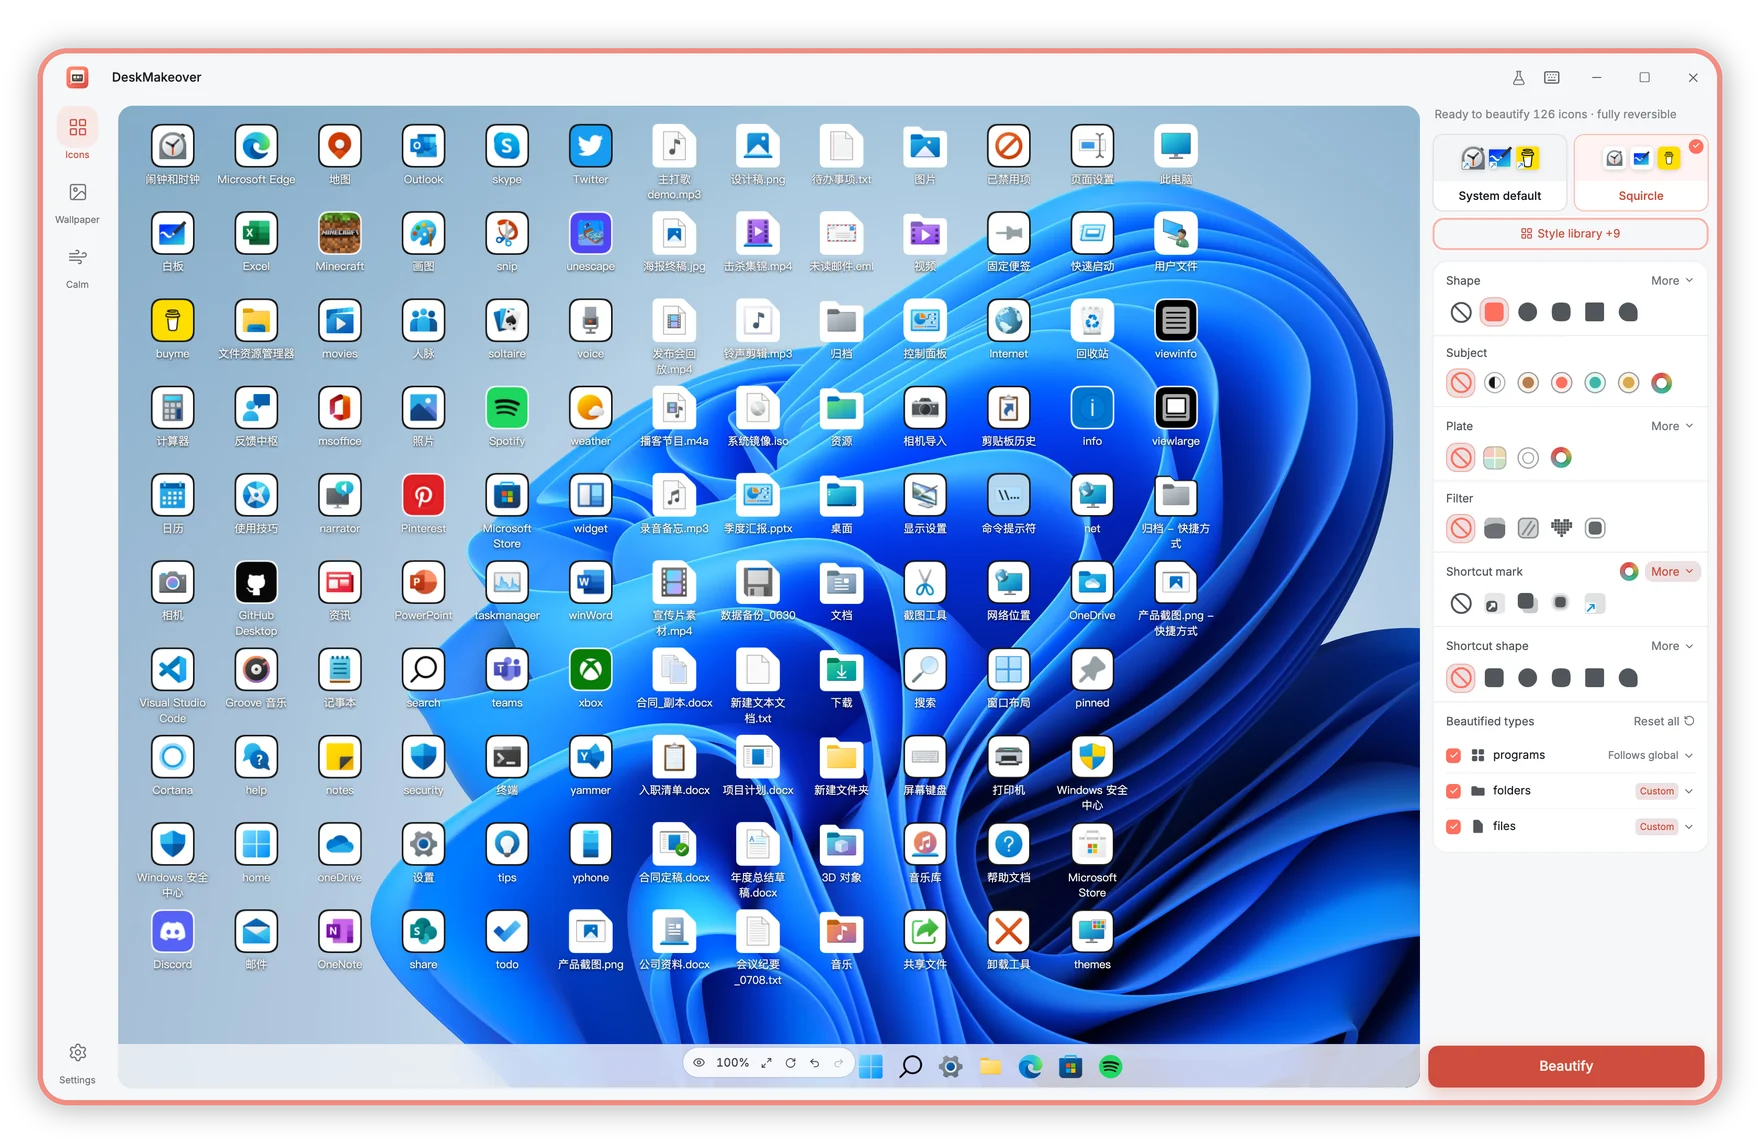
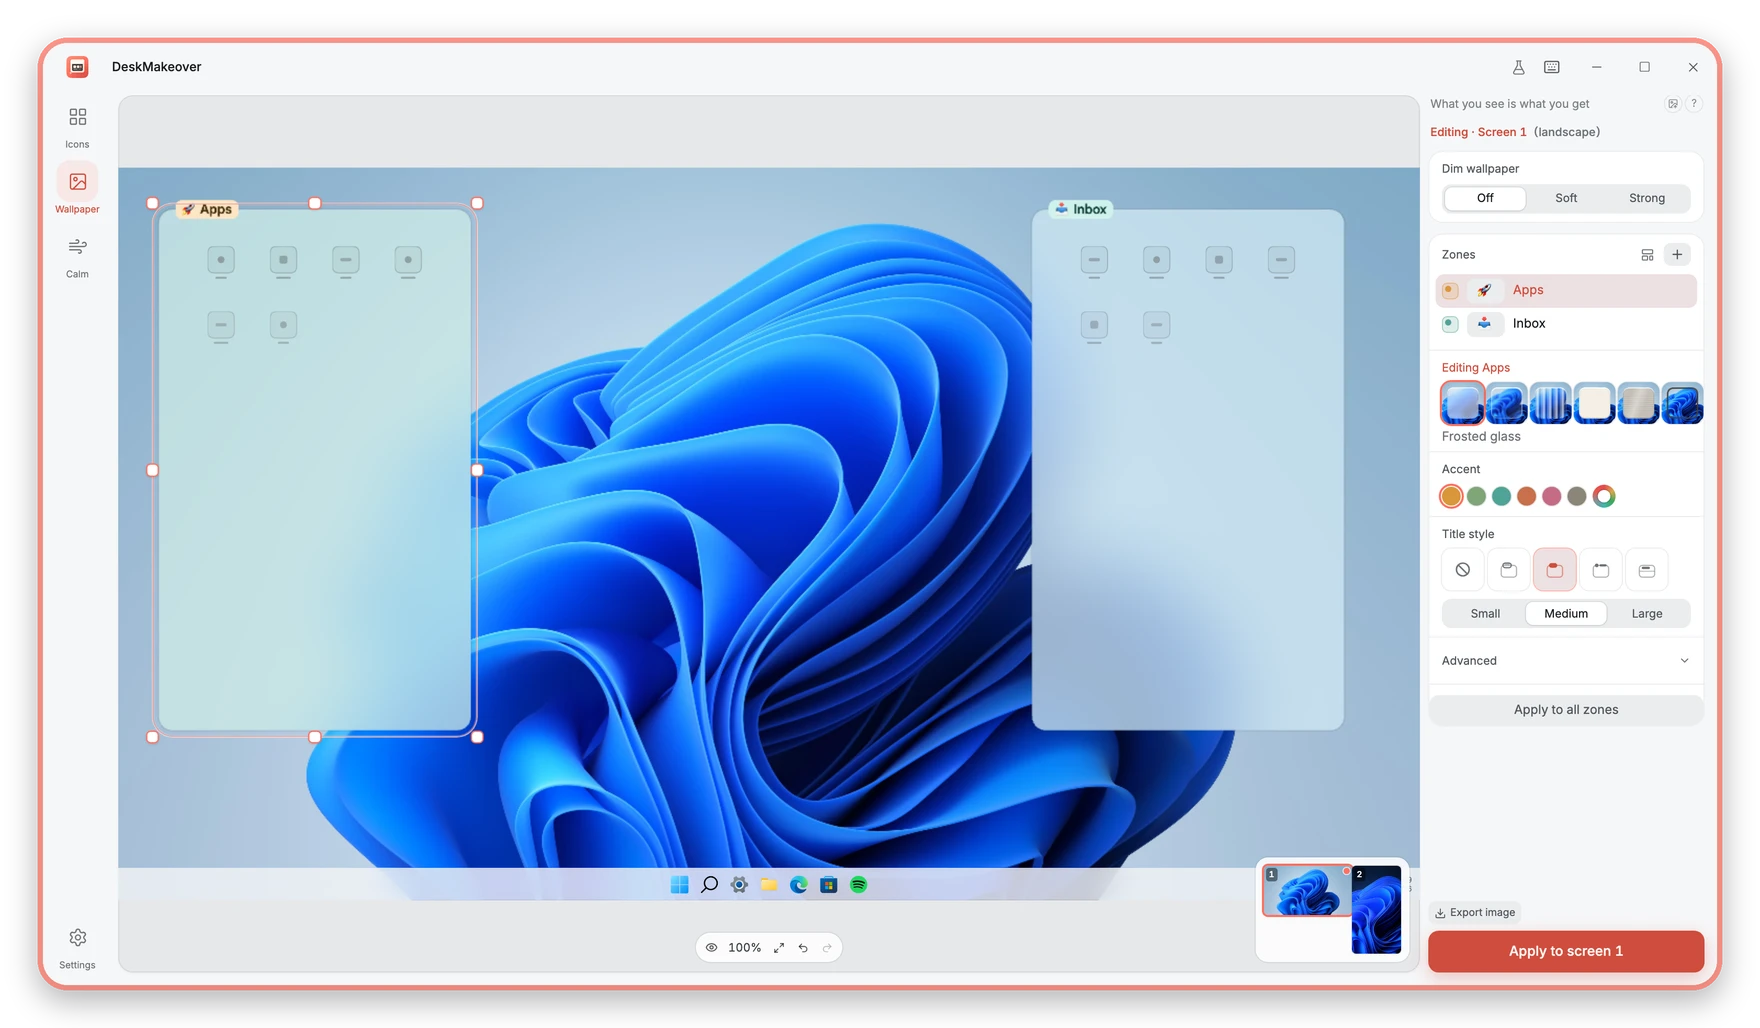
docs(readme): land the two-chief review — diagram width, dead links, distinct studio shot
Panel findings from the OSS + design chiefs, verified on real GitHub renders:
- narrow the architecture ASCII diagram to <=84 cols (the repo-home README
  column clipped every crate annotation mid-word; zh synced)
- hero + beta badge now anchor to the install section instead of the empty
  Releases page (restore to Releases at launch — see launch checklist)
- reshoot the studio shot as the wallpaper tab (zone selected, labeled panel)
  so it no longer duplicates the owner's zoomed icons shot
- reorder the nine-preset grid to match the specimen caption order (zh synced)
- concrete zh subtitles for 方圆 / 圆窗
- <sub> captions for the stylepack + zones shots (caption rule now uniform)
- rule-gradient: 2px core + soft halo so it reads on light theme

diff --git a/README.md b/README.md
@@ -8,7 +8,7 @@
 
 **Give your Windows desktop a look you actually like. Don't like it? One click puts everything back.**
 
-[![Status](https://img.shields.io/badge/beta-v0.1.0-FF6F5E?labelColor=2f363d)](https://github.com/nicepkg/deskmakeover/releases)
+[![Status](https://img.shields.io/badge/beta-v0.1.0-FF6F5E?labelColor=2f363d)](#-how-to-install)
 [![Windows](https://img.shields.io/badge/Windows-10%20%C2%B7%2011-464f58?labelColor=2f363d)](#-how-to-install)
 [![License](https://img.shields.io/badge/License-MIT-464f58?labelColor=2f363d)](LICENSE)
 [![Tauri](https://img.shields.io/badge/Built%20with-Tauri%202-464f58?labelColor=2f363d)](https://v2.tauri.app/)
@@ -17,7 +17,7 @@
 
 <br/>
 
-<a href="https://github.com/nicepkg/deskmakeover/releases">
+<a href="#-how-to-install">
   <img src=".github/assets/hero-beforeafter.svg" width="880" alt="A cluttered default Windows desktop is beautified into clean squircle icons with one click, then fully restored" />
 </a>
 
@@ -51,18 +51,18 @@ Each one hand-tuned on a real desktop. Pick one, click once, every icon puts it 
 <table align="center">
 <tr>
   <td align="center"><img src=".github/assets/preset-squircle.webp" width="250" alt="Squircle preset" /><br/><b>Squircle</b><br/><sub>continuous corners</sub></td>
-  <td align="center"><img src=".github/assets/preset-blueprint.webp" width="250" alt="Blueprint preset" /><br/><b>Blueprint</b><br/><sub>monochrome ink</sub></td>
+  <td align="center"><img src=".github/assets/preset-porthole.webp" width="250" alt="Porthole preset" /><br/><b>Porthole</b><br/><sub>clean circles</sub></td>
   <td align="center"><img src=".github/assets/preset-pixel-era.webp" width="250" alt="Pixel Era preset" /><br/><b>Pixel Era</b><br/><sub>8-bit afternoon</sub></td>
 </tr>
 <tr>
+  <td align="center"><img src=".github/assets/preset-creekstone.webp" width="250" alt="Creekstone preset" /><br/><b>Creekstone</b><br/><sub>river-worn stone</sub></td>
+  <td align="center"><img src=".github/assets/preset-scrapbook.webp" width="250" alt="Scrapbook preset" /><br/><b>Scrapbook</b><br/><sub>pasted by hand</sub></td>
   <td align="center"><img src=".github/assets/preset-gleam.webp" width="250" alt="Gleam preset" /><br/><b>Gleam</b><br/><sub>brushed with light</sub></td>
-  <td align="center"><img src=".github/assets/preset-glaze.webp" width="250" alt="Glaze preset" /><br/><b>Glaze</b><br/><sub>cool porcelain</sub></td>
-  <td align="center"><img src=".github/assets/preset-die-cut.webp" width="250" alt="Die-Cut preset" /><br/><b>Die-Cut</b><br/><sub>sticker outlines</sub></td>
 </tr>
 <tr>
-  <td align="center"><img src=".github/assets/preset-porthole.webp" width="250" alt="Porthole preset" /><br/><b>Porthole</b><br/><sub>clean circles</sub></td>
-  <td align="center"><img src=".github/assets/preset-scrapbook.webp" width="250" alt="Scrapbook preset" /><br/><b>Scrapbook</b><br/><sub>pasted by hand</sub></td>
-  <td align="center"><img src=".github/assets/preset-creekstone.webp" width="250" alt="Creekstone preset" /><br/><b>Creekstone</b><br/><sub>river-worn stone</sub></td>
+  <td align="center"><img src=".github/assets/preset-die-cut.webp" width="250" alt="Die-Cut preset" /><br/><b>Die-Cut</b><br/><sub>sticker outlines</sub></td>
+  <td align="center"><img src=".github/assets/preset-blueprint.webp" width="250" alt="Blueprint preset" /><br/><b>Blueprint</b><br/><sub>monochrome ink</sub></td>
+  <td align="center"><img src=".github/assets/preset-glaze.webp" width="250" alt="Glaze preset" /><br/><b>Glaze</b><br/><sub>cool porcelain</sub></td>
 </tr>
 </table>
 
@@ -85,6 +85,8 @@ Landed on a combination you love? Save it as your own style and reuse it with a 
 
 <div align="center">
 <img src=".github/assets/feature-stylepack.webp" width="440" alt="The style library with save, export, and import controls" />
+<br/>
+<sub>Your library lives next to the built-ins: save, export, import.</sub>
 </div>
 
 ## 🗂 Draw zones on your wallpaper
@@ -93,6 +95,8 @@ Icons piling into one big crowd? Draw translucent zones onto the wallpaper, one 
 
 <div align="center">
 <img src=".github/assets/feature-zones.webp" width="760" alt="Three template zones laid out on the wallpaper: Apps, Work, and a dark Doing zone" />
+<br/>
+<sub>One click of a layout template put these three zones down.</sub>
 </div>
 
 ## ✂ The little shortcut arrow: swap it or remove it
@@ -106,9 +110,9 @@ Find that arrow ugly? Swap it for a cleaner mark, or remove it. The app does it 
 ## 🎛 Inside the studio
 
 <div align="center">
-<img src=".github/assets/app-studio.webp" width="880" alt="The DeskMakeover window: live desktop mirror on the left, design controls on the right" />
+<img src=".github/assets/app-studio.webp" width="880" alt="The DeskMakeover window on the wallpaper tab: zones on the live desktop mirror, materials and title styles on the right" />
 <br/>
-<sub>Pick a look on the right, watch your real desktop restyle live on the left, hit Beautify when it's perfect.</sub>
+<sub>Every tab works the same way: adjust on the right, watch your real desktop change live on the left.</sub>
 </div>
 
 ## 📦 How to install
@@ -145,13 +149,14 @@ Yes. Pick a look, check the preview, click apply. No commands, no technical sett
 DeskMakeover is a **Tauri 2 + Rust** desktop app with a **React 19 + TypeScript** UI rendered in the system WebView (WebView2). The pixels are owned by one Rust icon core:
 
 ```
-React UI  ──(generated bridge, tauri-specta)──▶  Rust host
-  │                                                 │
-  │  live preview + design controls                ├─ dm-icon-core   one pixel truth (WASM preview + native bake)
-  │  WYSIWYG canvas (Pixi wallpaper)                ├─ dm-windows     shell / registry / desktop geometry
-  └─ mock backend for browser dev                   ├─ dm-operations  snapshot · apply · restore (SQLite ledger)
-                                                     ├─ dm-resident    background tray + reconciler
-                                                     └─ dm-elevated    tiny whitelisted privileged helper
+React UI ──(tauri-specta bridge)──▶ Rust host
+  │                                   │
+  │  live preview + design controls   ├─ dm-icon-core   one pixel truth
+  │  WYSIWYG canvas (Pixi wallpaper)  │                 (WASM + native)
+  └─ mock backend for browser dev     ├─ dm-windows     shell · registry · geometry
+                                      ├─ dm-operations  snapshot · apply · restore
+                                      ├─ dm-resident    tray + reconciler
+                                      └─ dm-elevated    tiny whitelisted helper
 ```
 
 **Why these choices:**
